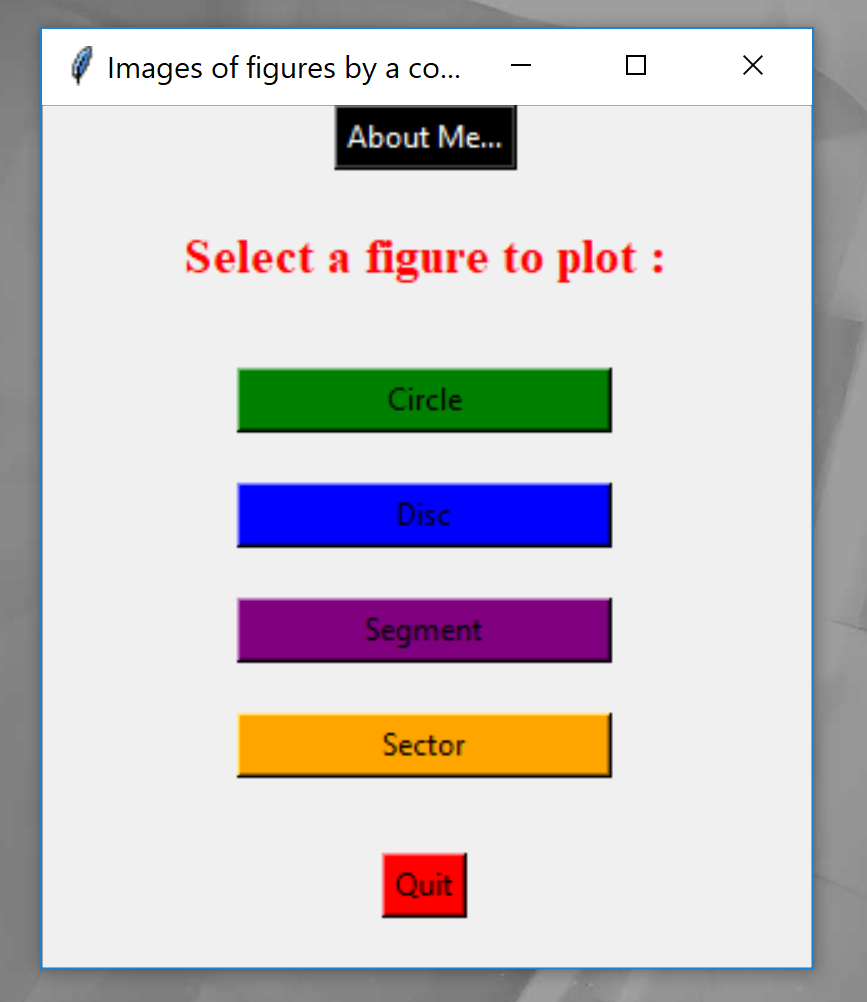
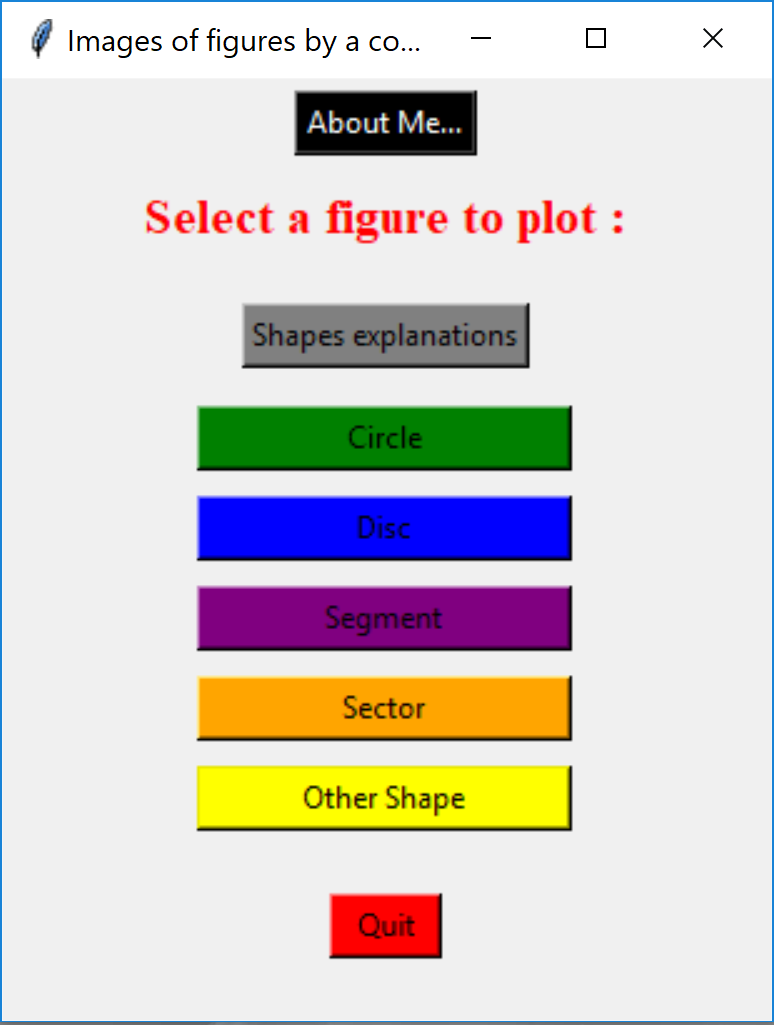
added shape explanations (as a small website)

diff --git a/shapes.html b/shapes.html
@@ -1,0 +1,37 @@
+<!DOCTYPE html>
+<html>
+    <head>
+        <meta charset="utf-8" />
+        <title>Shapes Explanations</title>
+        <link rel="icon" type="image/png" href="images/none.png" />
+        <style>h2 {color: orange; font-size: 2.5em; text-align: center}</style>
+    </head>
+
+    <body style="text-align: center">
+        <header>
+            <img src="images/screen0_5.png" alt="main menu" style="height: 20em">
+            <h1 style="color: red; font-size: 4em; text-align: center">Explanations about the shapes</h1>
+        </header>
+        <section id='circle'>
+            <h2>Circle</h2>
+            <img src="images/circleExplanations.png" alt="expl. circle" style="height: 30em">
+        </section>
+        <section id='disc'>
+            <h2>Disc</h2>
+            <img src="images/discExplanations.png" alt="expl. disc" style="height: 30em">
+        </section>
+        <section id='segment'>
+            <h2>Segment</h2>
+            <img src="images/segmentExplanations.png" alt="expl. segment" style="height: 30em">
+        </section>
+        <section id='sector'>
+            <h2>Sector</h2>
+            <img src="images/sectorExplanations.png" alt="expl. sector" style="height: 30em">
+        </section>
+        <section id='complicated_shape'>
+            <h2>Complex shape</h2>
+            <img src="images/shapeExplanations.png" alt="expl. complex shape" style="height: 30em">
+        </section>
+        
+    </body>
+</html>
